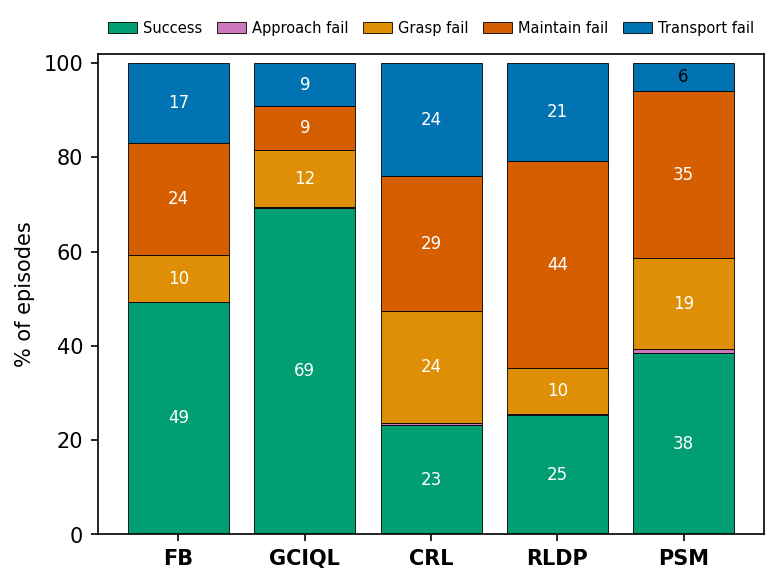
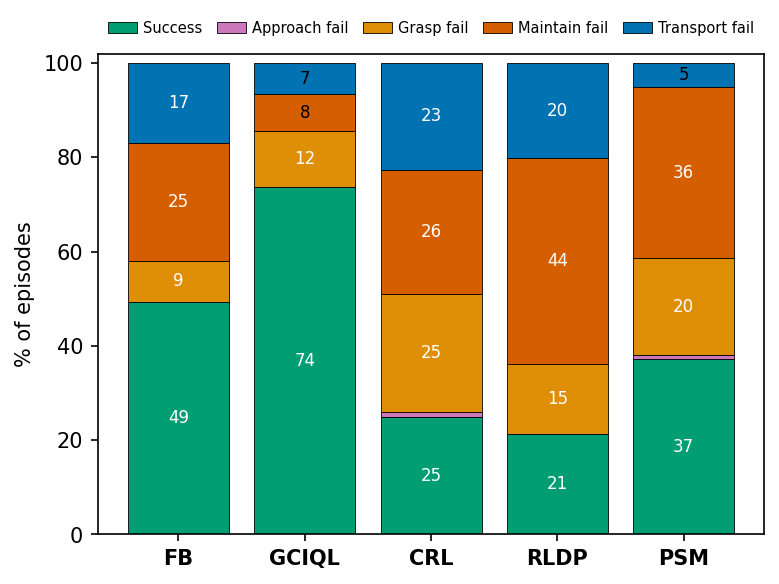
paper(rlbrew): refresh all results to uniform 1M + GCIQL flow actor
Re-ran the eval pipeline at 1M on the canonical checkpoints for all five
methods (phase probe on FB/PSM/RLDP/GCIQL-Flow/CRL, headline IQM from logs).
Swaps GCIQL-TD3 -> GCIQL-Flow (stock MLP, flow actor only): headline 68.3->71.8,
and updates the per-task, terminal-outcome, and geometry tables + funnel/outcomes
figures to the 1M numbers. FB/PSM/RLDP/CRL reproduce within noise; GCIQL is the
only substantive shift. GCIQL and CRL are 9 seeds (s3 never reached 1M).

diff --git a/PAPER/rlbrew/content/appendix.tex b/PAPER/rlbrew/content/appendix.tex
@@ -7,7 +7,7 @@ We distinguish two kinds of representation probes: offline reach-before-end sepa
 \subsection{Training and hyperparameters}
 \label{app:hyperparams}
 
-All methods are trained offline on the same \texttt{cube-single-play-v0} dataset with a flow-matching actor of $10$ integration steps. Table~\ref{tab:hyperparams} lists the training hyperparameters for the three successor-measure methods; the goal-conditioned baselines (\gciql{}, \crl{}) follow the OGBench defaults (Adam $3\times10^{-4}$, batch $1024$, $\gamma=0.99$, layer-normalized $[512,512,512]$ MLPs; \gciql{} uses IQL expectile $0.9$).
+All methods are trained offline on the same \texttt{cube-single-play-v0} dataset with a flow-matching actor of $10$ integration steps. Table~\ref{tab:hyperparams} lists the training hyperparameters for the three successor-measure methods; the goal-conditioned baselines (\gciql{}, \crl{}) use the same flow-matching actor with OGBench value defaults (Adam $3\times10^{-4}$, batch $1024$, $\gamma=0.99$, layer-normalized $[512,512,512]$ MLPs; \gciql{} uses IQL expectile $0.9$).
 
 Two hyperparameters received per-method tuning and matter for the comparison. First, the orthonormality weight $\lambda_{\mathrm{ortho}}$ on the backward embedding: \fb{} and \psm{} both require \emph{strong} orthogonalization ($\lambda_{\mathrm{ortho}}=10^{3}$)---for \psm{}, raising it from $1$ to $10^{3}$ improves success from $30.7$ to $36.7$---whereas \rldp{} collapses under strong orthogonalization and uses $\lambda_{\mathrm{ortho}}=10^{-2}$, letting its encoder absorb the regularization. Second, \psm{} trains its $\phi$-map at a $10\times$ smaller learning rate than its successor-feature map, which stabilizes the tuned run.
 
@@ -31,15 +31,15 @@ Two hyperparameters received per-method tuning and matter for the comparison. Fi
 
 \begin{table}[H]
 \centering
-\caption{State-based evaluation success by task (IQM $\pm$ half-width of the $95\%$ stratified-bootstrap CI across $10$ seeds).}
+\caption{State-based evaluation success by task (IQM $\pm$ half-width of the $95\%$ stratified-bootstrap CI across $10$ seeds; $9$ for \gciql{} and \crl{}). All methods use the flow-matching actor and are evaluated at $1$M steps.}
 \label{tab:pertask}
 \begin{tabular}{lcccccc}
 \toprule
 \textbf{Method} & \textbf{task1} & \textbf{task2} & \textbf{task3} & \textbf{task4} & \textbf{task5} & \textbf{Overall} \\
 \midrule
-\fb{}    & $16.7 \pm 10.0$ & $68.3 \pm 10.9$ & $75.0 \pm 10.0$ & $40.0 \pm 13.3$ & $43.3 \pm 18.4$ & $50.0 \pm 7.0$ \\
-\gciql{} & $73.7 \pm 5.9$  & $70.0 \pm 7.0$  & $73.0 \pm 7.0$  & $58.0 \pm 5.2$  & $64.3 \pm 7.0$  & $68.3 \pm 3.7$ \\
-\crl{}   & $24.0 \pm 3.3$  & $28.0 \pm 6.7$  & $28.0 \pm 4.8$  & $24.3 \pm 3.5$  & $26.3 \pm 5.8$  & $25.9 \pm 2.0$ \\
+\fb{}    & $21.7 \pm 10.8$ & $73.3 \pm 10.8$ & $73.3 \pm 6.7$  & $36.7 \pm 15.8$ & $50.0 \pm 13.3$ & $52.0 \pm 5.5$ \\
+\gciql{} & $78.8 \pm 8.0$  & $74.8 \pm 5.8$  & $76.4 \pm 7.4$  & $67.2 \pm 4.2$  & $68.0 \pm 5.2$  & $71.8 \pm 4.1$ \\
+\crl{}   & $23.6 \pm 3.2$  & $26.8 \pm 7.4$  & $28.4 \pm 5.6$  & $23.6 \pm 3.8$  & $27.2 \pm 5.4$  & $25.8 \pm 2.3$ \\
 \rldp{}  & $28.3 \pm 10.8$ & $16.7 \pm 6.7$  & $35.0 \pm 15.9$ & $13.3 \pm 12.5$ & $18.3 \pm 10.0$ & $22.7 \pm 6.0$ \\
 \psm{}   & $50.0 \pm 11.7$ & $38.3 \pm 16.7$ & $73.3 \pm 12.5$ & $1.7 \pm 4.2$   & $11.7 \pm 9.2$  & $36.7 \pm 4.5$ \\
 \bottomrule
@@ -51,17 +51,17 @@ Two hyperparameters received per-method tuning and matter for the comparison. Fi
 
 \begin{table}[H]
 \centering
-\caption{Cross-method terminal-outcome distribution (\% of episodes, mean across $10$ seeds; the first five columns sum to $100\%$). The post-contact share is $(\text{maintain}+\text{transport})/(100-\text{success})$.}
+\caption{Cross-method terminal-outcome distribution (\% of episodes, mean across $10$ seeds; $9$ for \gciql{} and \crl{}; the first five columns sum to $100\%$). The post-contact share is $(\text{maintain}+\text{transport})/(100-\text{success})$.}
 \label{tab:cross_method_outcomes}
 \begin{tabular}{lcccccc}
 \toprule
 \textbf{Method} & \textbf{Success} & \textbf{Approach} & \textbf{Grasp} & \textbf{Maintain} & \textbf{Transport} & \textbf{Post-contact share} \\
 \midrule
-\fb{}    & $49.4$ & $0.0$ & $9.8$  & $23.8$ & $17.0$ & $80.6\%$ \\
-\gciql{} & $69.2$ & $0.2$ & $12.2$ & $9.2$  & $9.2$  & $59.7\%$ \\
-\crl{}   & $23.2$ & $0.4$ & $23.8$ & $28.6$ & $24.0$ & $68.5\%$ \\
-\rldp{}  & $25.4$ & $0.2$ & $9.6$  & $44.0$ & $20.8$ & $86.9\%$ \\
-\psm{}   & $38.4$ & $1.0$ & $19.2$ & $35.4$ & $6.0$  & $67.2\%$ \\
+\fb{}    & $49.4$ & $0.0$ & $8.7$  & $24.9$ & $17.0$ & $82.8\%$ \\
+\gciql{} & $73.7$ & $0.0$ & $11.9$ & $7.8$  & $6.7$  & $54.9\%$ \\
+\crl{}   & $25.0$ & $0.9$ & $25.2$ & $26.3$ & $22.6$ & $65.2\%$ \\
+\rldp{}  & $21.3$ & $0.1$ & $14.7$ & $43.8$ & $20.1$ & $81.2\%$ \\
+\psm{}   & $37.3$ & $0.8$ & $20.5$ & $36.4$ & $5.0$  & $66.0\%$ \\
 \bottomrule
 \end{tabular}
 \end{table}
@@ -107,9 +107,9 @@ Two hyperparameters received per-method tuning and matter for the comparison. Fi
 \toprule
 \textbf{Method} & \textbf{$R^2(B\to d)$ linear} & \textbf{$R^2(B\to d)$ MLP} & \textbf{Maintain-control fail (\%)} \\
 \midrule
-\fb{}   & $0.20$ & $0.21$          & $23.8$ \\
-\rldp{} & $0.55$ & $0.75$          & $44.0$ \\
-\psm{}  & $0.90$ & $\mathbf{0.90}$ & $35.4$ \\
+\fb{}   & $0.20$ & $0.21$          & $24.9$ \\
+\rldp{} & $0.55$ & $0.75$          & $43.8$ \\
+\psm{}  & $0.90$ & $\mathbf{0.90}$ & $36.4$ \\
 \bottomrule
 \end{tabular}
 \end{table}

diff --git a/PAPER/rlbrew/content/results.tex b/PAPER/rlbrew/content/results.tex
@@ -11,14 +11,14 @@ Per-task success, exact counts, and the full diagnostic tables are in Appendix~\
 \subsection{Scalar success obscures policy failure}
 
 Aggregate state-based success ranks the methods but says nothing about where they fail. 
-Across $10$ evaluation seeds, the overall Inter-quartile Mean (IQM)~\citep{agarwal-neurips21a} success rates are \gciql{} ($68.3 \pm 3.7$), \fb{} ($50.0 \pm 7.0$), \psm{} ($36.7 \pm 4.5$), \crl{} ($25.9 \pm 2.0$), and \rldp{} ($22.7 \pm 6.0$).\protect\footnotemark{}
+Across $10$ evaluation seeds ($9$ for \gciql{} and \crl{}), the overall Inter-quartile Mean (IQM)~\citep{agarwal-neurips21a} success rates are \gciql{} ($71.8 \pm 4.1$), \fb{} ($52.0 \pm 5.5$), \psm{} ($36.7 \pm 4.5$), \crl{} ($25.8 \pm 2.3$), and \rldp{} ($22.7 \pm 6.0$).\protect\footnotemark{}
 Per-task results are deferred to Appendix~\ref{app:tables}.
 \footnotetext{Aggregate success uses the stochastic evaluation policy (IQM over seeds); the phase decomposition uses deterministic closed-loop rollouts, so per-method success differs slightly. We report each metric consistently within its own analysis.}
 
 The phase decomposition (Section~\ref{sec:method}) localizes the failure (Figures~\ref{fig:funnel} and \ref{fig:outcomes}). 
 Every method reaches the cube and most acquire a grasp, but the survival curve collapses \emph{after} control acquisition (Figure~\ref{fig:funnel}), and the terminal-outcome mass sits in maintain-control and transport rather than approach (Figure~\ref{fig:outcomes}). 
-Relative to \gciql{}, \fb{}'s $19.8\text{ pp}$ deficit decomposes as $+0.2$ approach, $+2.4$ grasp, $-14.6$ maintain, $-7.8$ transport: almost entirely post-contact. 
-The pattern is not specific to \fb{}; \psm{} and \rldp{} acquire control yet end without maintained control in $35\%$ and $44\%$ of episodes, and across the lower-scoring methods the post-contact share of failures is $67$--$87\%$ (Appendix~\ref{app:tables}).
+Relative to \gciql{}, \fb{}'s $24.3\text{ pp}$ deficit decomposes as $0.0$ approach, $+3.2$ grasp, $-17.1$ maintain, $-10.3$ transport: almost entirely post-contact.
+The pattern is not specific to \fb{}; \psm{} and \rldp{} acquire control yet end without maintained control in $36\%$ and $44\%$ of episodes, and across the lower-scoring methods the post-contact share of failures is $65$--$83\%$ (Appendix~\ref{app:tables}).
 Because the phase labels read no value, representation, or model, the protocol extends unchanged to other methods.
 
 \begin{figure}[htbp]

diff --git a/scripts/figures/plot_rlbrew_figures.py b/scripts/figures/plot_rlbrew_figures.py
@@ -48,11 +48,11 @@ def _present(d):
 
 # S0 terminal-outcome distribution (% episodes, mean over seeds).
 OUTCOMES = {
-    "FB":    {"success": 49.4, "approach": 0.0, "grasp": 9.8,  "maintain": 23.8, "transport": 17.0},
-    "GCIQL": {"success": 69.2, "approach": 0.2, "grasp": 12.2, "maintain": 9.2,  "transport": 9.2},
-    "CRL":   {"success": 23.2, "approach": 0.4, "grasp": 23.8, "maintain": 28.6, "transport": 24.0},
-    "RLDP":  {"success": 25.4, "approach": 0.2, "grasp": 9.6,  "maintain": 44.0, "transport": 20.8},
-    "PSM":   {"success": 38.4, "approach": 1.0, "grasp": 19.2, "maintain": 35.4, "transport": 6.0},
+    "FB":    {"success": 49.4, "approach": 0.0, "grasp": 8.7,  "maintain": 24.9, "transport": 17.0},
+    "GCIQL": {"success": 73.7, "approach": 0.0, "grasp": 11.9, "maintain": 7.8,  "transport": 6.7},
+    "CRL":   {"success": 25.0, "approach": 0.9, "grasp": 25.2, "maintain": 26.3, "transport": 22.6},
+    "RLDP":  {"success": 21.3, "approach": 0.1, "grasp": 14.7, "maintain": 43.8, "transport": 20.1},
+    "PSM":   {"success": 37.3, "approach": 0.8, "grasp": 20.5, "maintain": 36.4, "transport": 5.0},
 }
 OUTCOME_KEYS = ["success", "approach", "grasp", "maintain", "transport"]
 OUTCOME_LAB = ["Success", "Approach fail", "Grasp fail", "Maintain fail", "Transport fail"]
